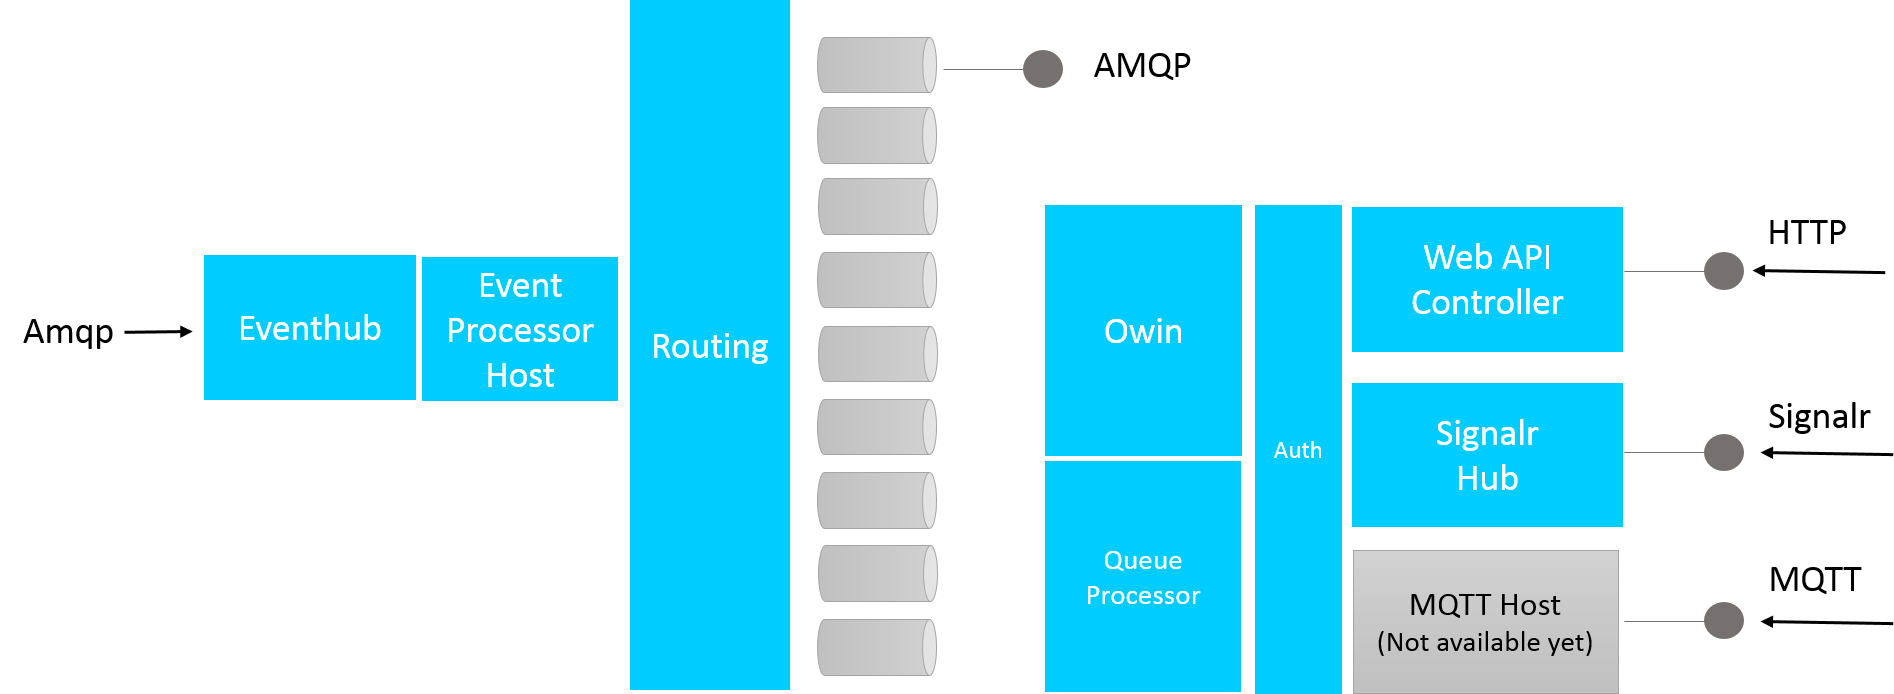
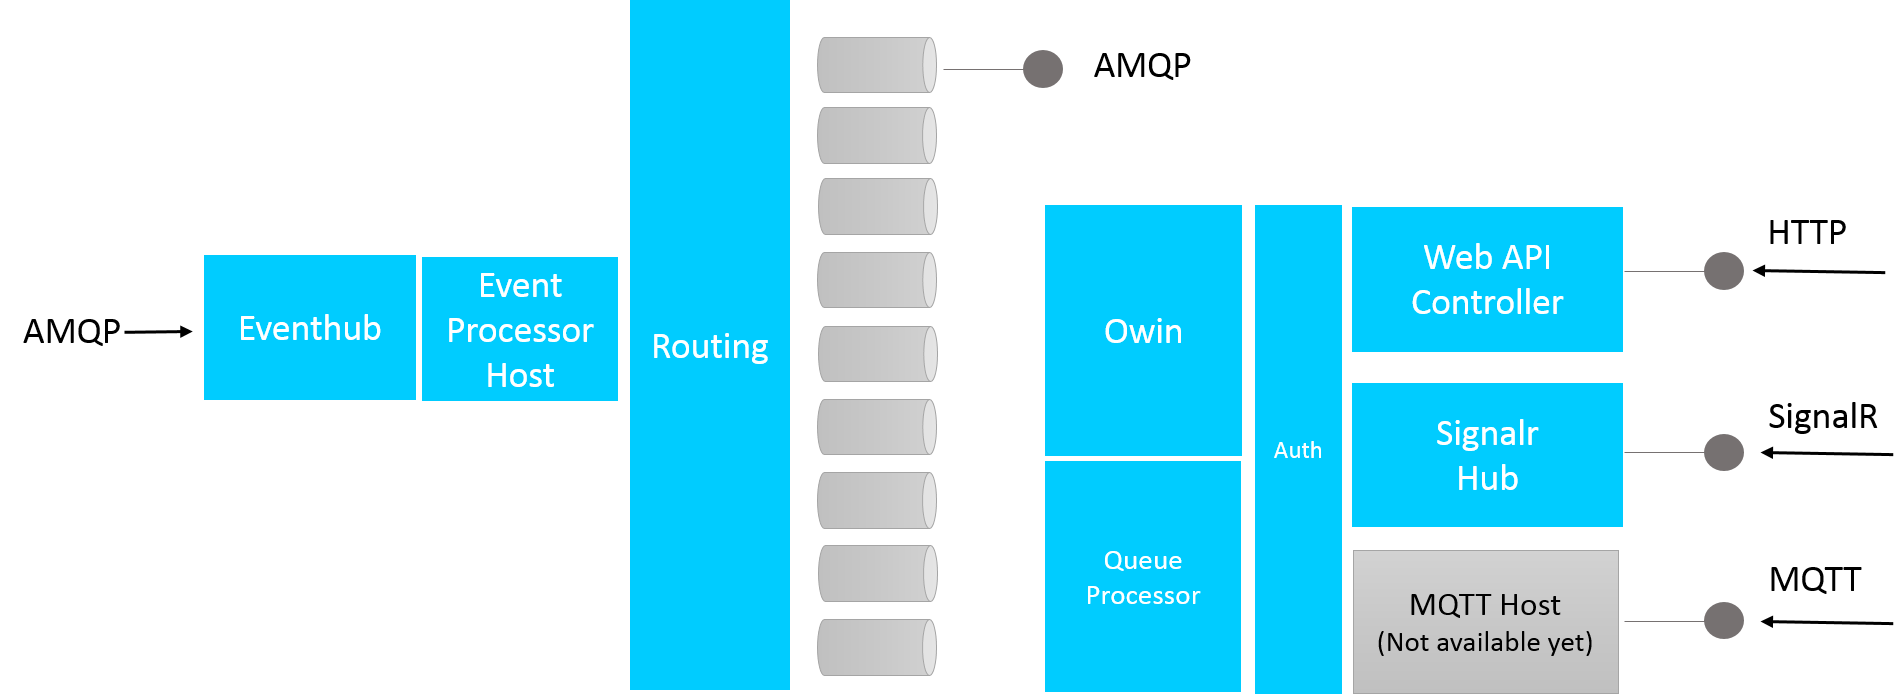
incorporated sean's feedback

diff --git a/architecture/endpoints.md b/architecture/endpoints.md
@@ -26,7 +26,7 @@ At the core of our gateway infrastructure you can find following components:
 
 For ingress:
 
-* Azure EventHubs for high scale ingress: These babies can handle up to a million messages per second, each. Needless to say that most use cases need less capacity per endpoint, so we do share these entities between multiple endpoints by default.
+* Azure EventHubs for high scale ingress: These entities can handle up to a million messages per second, each. Needless to say that most use cases need less capacity per endpoint, so we do share these entities between multiple endpoints by default.
 * As an authentication mechanism for ingress we leverage Shared Access Signatures on Publisher Policies, so that each endpoint is individually secured and revocable.
 * Our gateway software continuously processes these EventHubs and routes the messages towards the correct channels, based on 'route authorizations' and 'additional restrictions' that you can define in the administrative UI. Note: channel architecture is discussed in a separate article.
 
@@ -42,17 +42,17 @@ Note: We didn't use ServiceBus topics with subscription filters for egress purpo
 
 Out of the box, all Azure ServiceBus entities allow you communicate using the AMQPS 1.0 or HTTPS protocol. These are convenient, but in many scenario's other protocols are required. So we added a pluggable adapter layer to our gateway to accommodate for these, in addition to AMQP we also support the following protocols:
 
-* Signalr: Allows for real time communication with website frontends written in javascript.
-* Http: Many IoT devices do not have enough system resources to deal with SSL encryption. For production use, we suggest you leverage a local field gateway intermediary that has the capabilities to perform SSL encryption on behalf of these devices, but for development and prototyping this approach is way to complex. Hence we allow you to connect to our gateway in a non-encrypted way for these scenario's.
+* SignalR: Allows for real time communication with website frontends written in javascript.
+* HTTP: Many IoT devices do not have enough system resources to deal with SSL encryption. For production use, we suggest you leverage a local field gateway intermediary that has the capabilities to perform SSL encryption on behalf of these devices, but for development and prototyping this approach is way to complex. Hence we allow you to connect to our gateway in a non-encrypted way for these scenario's.
 * Other: Our gateway is pluggable, so we can add additional protocols to it if required. A common ask is MQTT for example, but almost anything is possible.
 
 The architecture of this pluggable layer looks like this.
 
-For ingress, the adapters are stacked next to the amqp one (which is EventProcessorHost based). All of them have dedicated addresses specific to the protocol, and are implemented using commonly available Microsoft frameworks. Each of these implementations uses a shared authentication layer to validate the ingress shared access signature and once validated, the messages are forwarded to a shared routing layer that routes the messages to your channels based on your authorization rules.
+For ingress, the adapters are stacked next to the AMQP one (which is EventProcessorHost based). All of them have dedicated addresses specific to the protocol, and are implemented using commonly available Microsoft frameworks. Each of these implementations uses a shared authentication layer to validate the ingress shared access signature and once validated, the messages are forwarded to a shared routing layer that routes the messages to your channels based on your authorization rules.
 
 ![Endpoint Protocols Out](/documentation/images/architecture-endpoint-protocols-in.png)
 
-For egress the design is a bit different. In this case the adapters are layered on top of the queues as we need to store the messages temporarily until the endpoint can connect, authenticate and come fetch them. Some protocols however have pub-sub semantics while maintaining an open connection, like Signalr does, for these protocols we maintain a server side queue processor that runs while a connection is open and continuously monitors the queue and forwards messages towards the connected client.
+For egress the design is a bit different. In this case the adapters are layered on top of the queues as we need to store the messages temporarily until the endpoint can connect, authenticate and come fetch them. Some protocols however have pub-sub semantics while maintaining an open connection, like SignalR does, for these protocols we maintain a server side queue processor that runs while a connection is open and continuously monitors the queue and forwards messages towards the connected client.
 
 ![Endpoint Protocols In](/documentation/images/architecture-endpoint-protocols-out.png)
 
